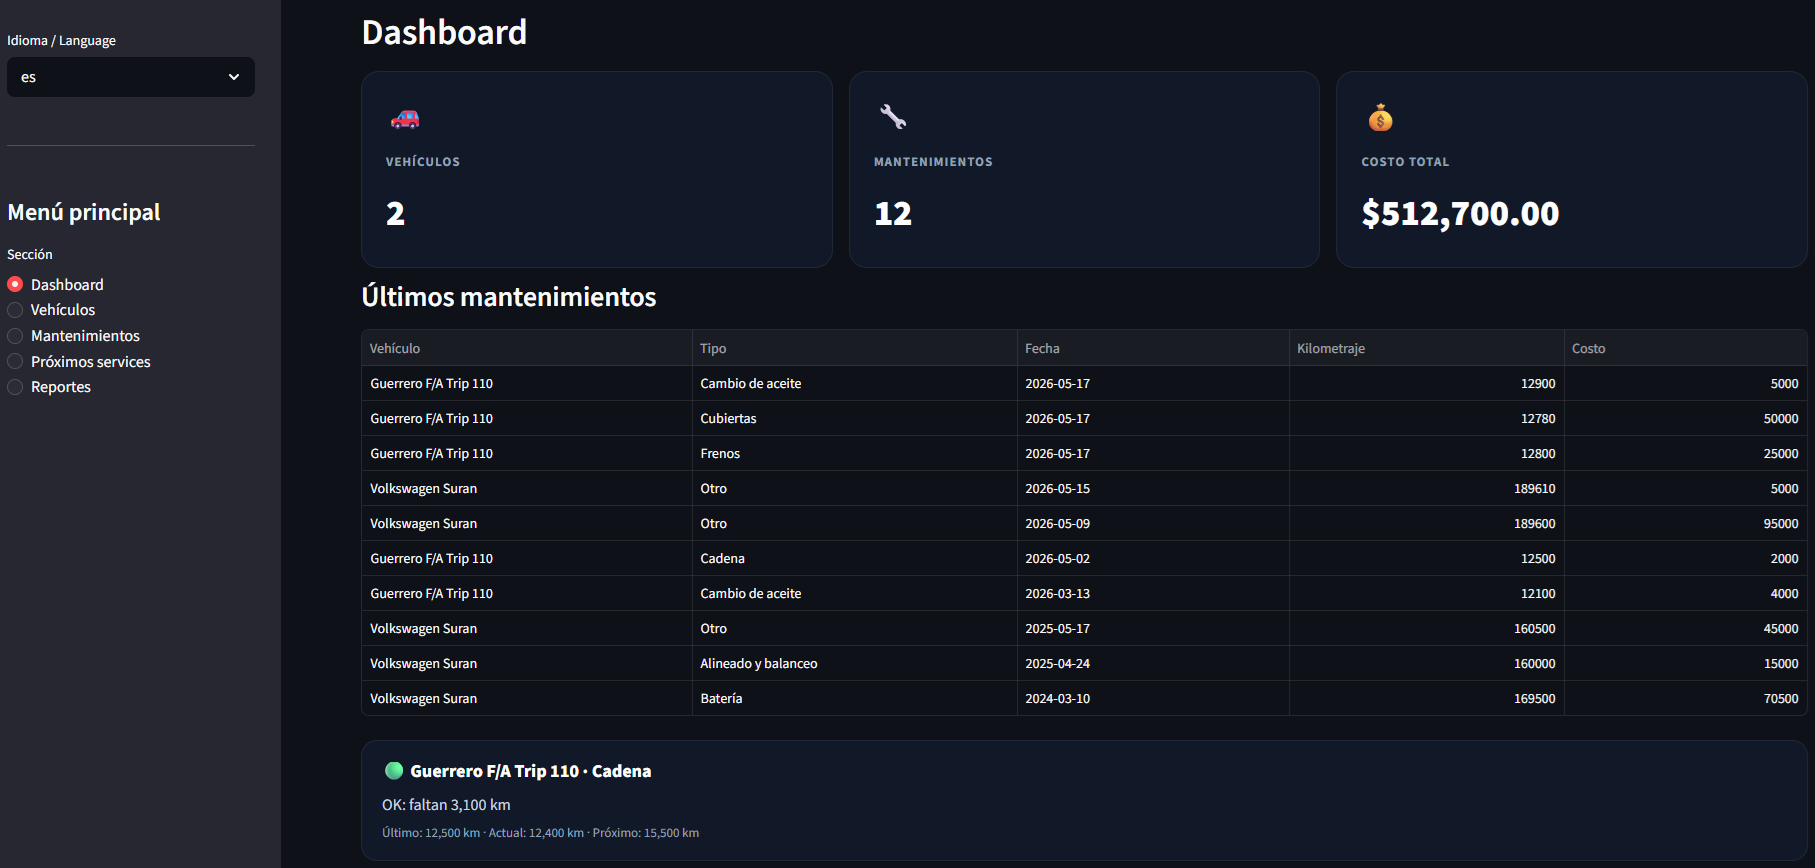
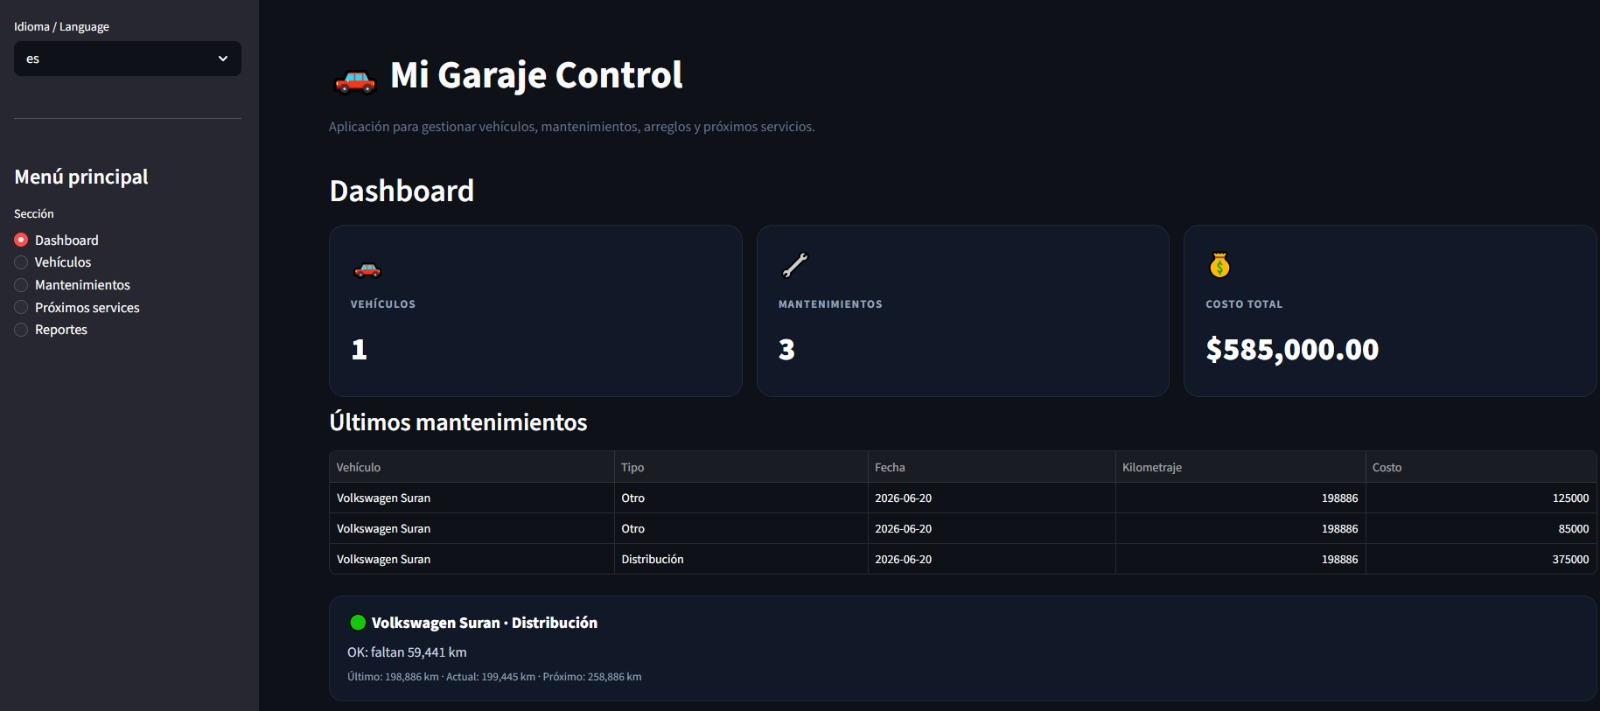
Actualiza portfolio con demo online de Mi Garage Control

diff --git a/proyectos/vehiculos.html b/proyectos/vehiculos.html
@@ -36,21 +36,27 @@
           Proyecto · Gestión personal
         </div>
 
-        <h1>Garage <span class="gradient-text">Control</span></h1>
+        <h1>Mi Garage <span class="gradient-text">Control</span></h1>
 
         <p class="hero-description">
-          Aplicación web orientada al control integral de vehículos personales. Permite registrar
-          autos y motos, cargar mantenimientos, reparaciones, mejoras, costos asociados y estimar
-          próximos services según el historial y kilometraje actual.
+          Aplicación web desarrollada en Python y Streamlit para gestionar el historial completo de vehículos. 
+          Permite registrar mantenimientos, reparaciones, analizar costos mediante dashboards interactivos y estimar próximos services. 
+          Actualmente se encuentra desplegada en la nube utilizando PostgreSQL (Supabase) y Streamlit Community Cloud.
         </p>
 
         <div class="cta-row">
-          <a class="button primary" href="#" target="_blank" rel="noopener noreferrer">
-            Ver GitHub
+          <a class="button primary" 
+          href="https://mi-garaje-control.streamlit.app/" 
+          target="_blank" 
+          rel="noopener noreferrer">
+          Demo Online
           </a>
 
-          <a class="button secondary" href="../index.html#proyectos">
-            Volver al portfolio
+          <a class="button secondary" 
+          href="https://github.com/ferbravo98/mi-garaje-control"
+          target="_blank"
+          rel="noopener noreferrer">
+          GitHub
           </a>
         </div>
       </div>
@@ -62,16 +68,48 @@
 
         <h2>Stack usado</h2>
 
-        <p class="profile-stack">Python · SQLite · Git</p>
+        <p class="profile-stack">Python · Streamlit · PostgreSQL · Supabase </p>
 
         <div class="tech-icons" aria-label="Tecnologías del proyecto">
           <i class="devicon-python-plain" title="Python"></i>
-          <i class="devicon-sqlite-plain" title="SQLite"></i>
+          <i class="devicon-streamlit-plain" title="Streamlit"></i>
+          <i class="devicon-postgresql-plain" title="PostgreSQL"></i>
           <i class="devicon-git-plain" title="Git"></i>
+          <i class="devicon-github-plain" title="GitHub"></i>
         </div>
       </aside>
     </section>
 
+    <section class="section">
+      <div class="about-card">
+        <div class="about-block">
+          <h3>Estado del proyecto</h3>
+          <ul>
+            <li>Demo online disponible.</li>
+            <li>Aplicación desplegada en Streamlit Community Cloud.</li>
+            <li>Base de datos PostgreSQL alojada en Supabase.</li>
+            <li>Acceso desde PC y dispositivos móviles.</li>
+            <li>Persistencia de datos en la nube.</li>
+            <li>Proyecto versionado con Git y GitHub.</li>
+          </ul>
+        </div>
+
+        <div class="about-block">
+          <h3>Acceso rápido</h3>
+          <p>
+            La aplicación puede probarse directamente desde el navegador, sin instalación local.
+          </p>
+
+          <a class="button primary"
+            href="https://mi-garaje-control.streamlit.app/"
+            target="_blank"
+            rel="noopener noreferrer">
+            Abrir demo online
+          </a>
+        </div>
+      </div>
+    </section>
+    
     <section class="section">
       <div class="section-header">
         <div>
@@ -130,6 +168,11 @@
     src="../assets/img/mi-garage-control/dashboard.png"
     alt="Dashboard Garage Control"
     class="gallery-image js-lightbox">
+  
+  <img
+    src="../assets/img/mi-garage-control/registrar-actividad.png"
+    alt="Registrar Actividad Garage Control"
+    class="gallery-image js-lightbox">
 
   <img
     src="../assets/img/mi-garage-control/proximos-services.png"
@@ -167,22 +210,24 @@
 
       <div class="about-card">
         <div class="about-block">
-          <h3>Habilidades aplicadas</h3>
+          <h3>Competencias técnicas demostradas</h3>
           <ul>
-            <li>Diseño de entidades relacionadas.</li>
-            <li>Persistencia de datos locales.</li>
-            <li>Registro y consulta de información histórica.</li>
-            <li>Separación de datos por tipo de vehículo.</li>
-            <li>Construcción de una solución útil para control personal.</li>
+            <li>Diseño de entidades y relaciones para la gestión de vehículos y mantenimientos.</li>
+            <li>Persistencia de datos en PostgreSQL mediante Supabase.</li>
+            <li>Desarrollo de una aplicación web con Python y Streamlit.</li>
+            <li>Visualización de métricas y gráficos interactivos con Plotly.</li>
+            <li>Despliegue de la aplicación en Streamlit Community Cloud.</li>
+            <li>Construcción de una solución práctica orientada a la gestión vehicular.</li>
+
           </ul>
         </div>
 
         <div class="about-block">
           <h3>Aprendizajes</h3>
           <p>
-            Este proyecto me permitió practicar cómo convertir una necesidad personal
-            en una aplicación concreta, trabajando con registros, relaciones de datos
-            y funcionalidades orientadas al uso diario.
+            Durante el desarrollo evolucioné el proyecto desde una aplicación local basada en SQLite 
+            hacia una aplicación web desplegada en la nube, migrando la persistencia a PostgreSQL mediante Supabase. 
+            Esta evolución me permitió incorporar conceptos de despliegue, bases de datos remotas, arquitectura modular y publicación de aplicaciones web.
           </p>
         </div>
       </div>
@@ -203,12 +248,14 @@
         <div class="about-block">
           <h3>Próximas funcionalidades</h3>
           <ul>
-            <li>Clasificación de registros entre mantenimiento, reparación y mejora.</li>
-            <li>Edición y eliminación de registros del historial.</li>
-            <li>Filtros avanzados por fecha, tipo, categoría y rango de kilometraje.</li>
-            <li>Selección de color identificatorio por vehículo.</li>
-            <li>Exportación de reportes en PDF o Excel.</li>
-            <li>Backup y restauración de la base de datos.</li>
+            <li>Autenticación de usuarios.</li>
+            <li>Asociación de múltiples vehículos por usuario.</li>
+            <li>Colores personalizados por vehiculo.</li>
+            <li>Adjuntar fotografias.</li>
+            <li>Exportación PDF.</li>
+            <li>Recordatorios automáticos.</li>
+            <li>Gestion para concesionarias.</li>
+            <li>Historial transferible entre propietarios.</li>
           </ul>
         </div>
 
